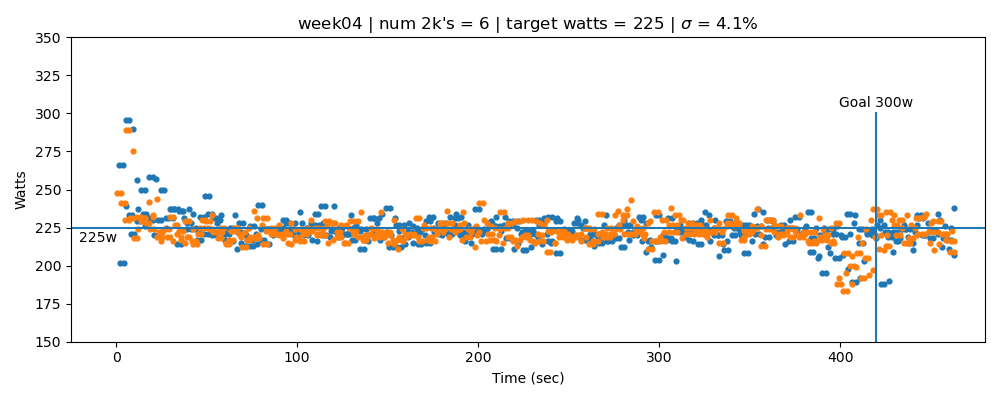
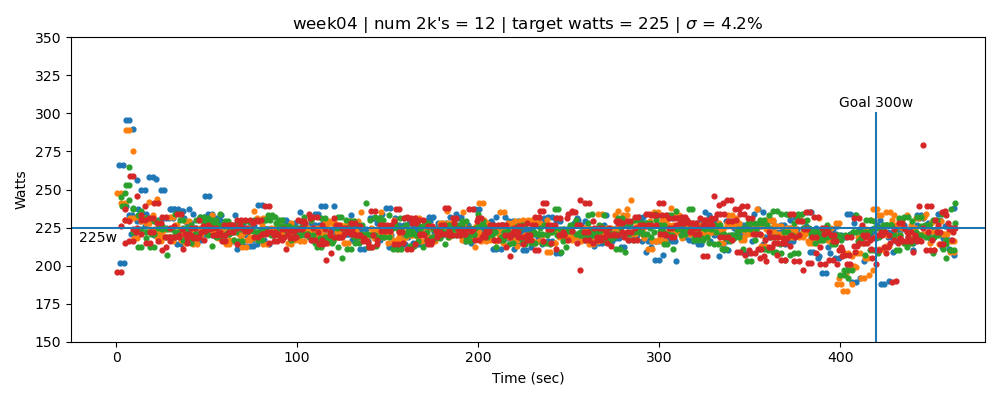
updated data

Changed region(s): [[0.093, 0.42, 0.961, 0.72], [0.279, 0.03, 0.775, 0.09], [0.093, 0.66, 0.124, 0.69]]

diff --git a/README.md b/README.md
@@ -16,10 +16,12 @@ Not sure what the CRASH-B target is yet. (300/265)x313x0.95 ~ 340 watts? This wo
 
 25 sessions, 75x2k
 
-##### Week 4: 225 Watts (6x2k)
+##### Week 4: 225 Watts (12x2k)
 
 | Date | Watts |
 | ---- | ----- |
+| 2021-11-12 | 225/225/225 |
+| 2021-11-12 | 225/225/225 |
 | 2021-11-11 | 225/225/225 |
 | 2021-11-10 | 225/225/225 |
 
